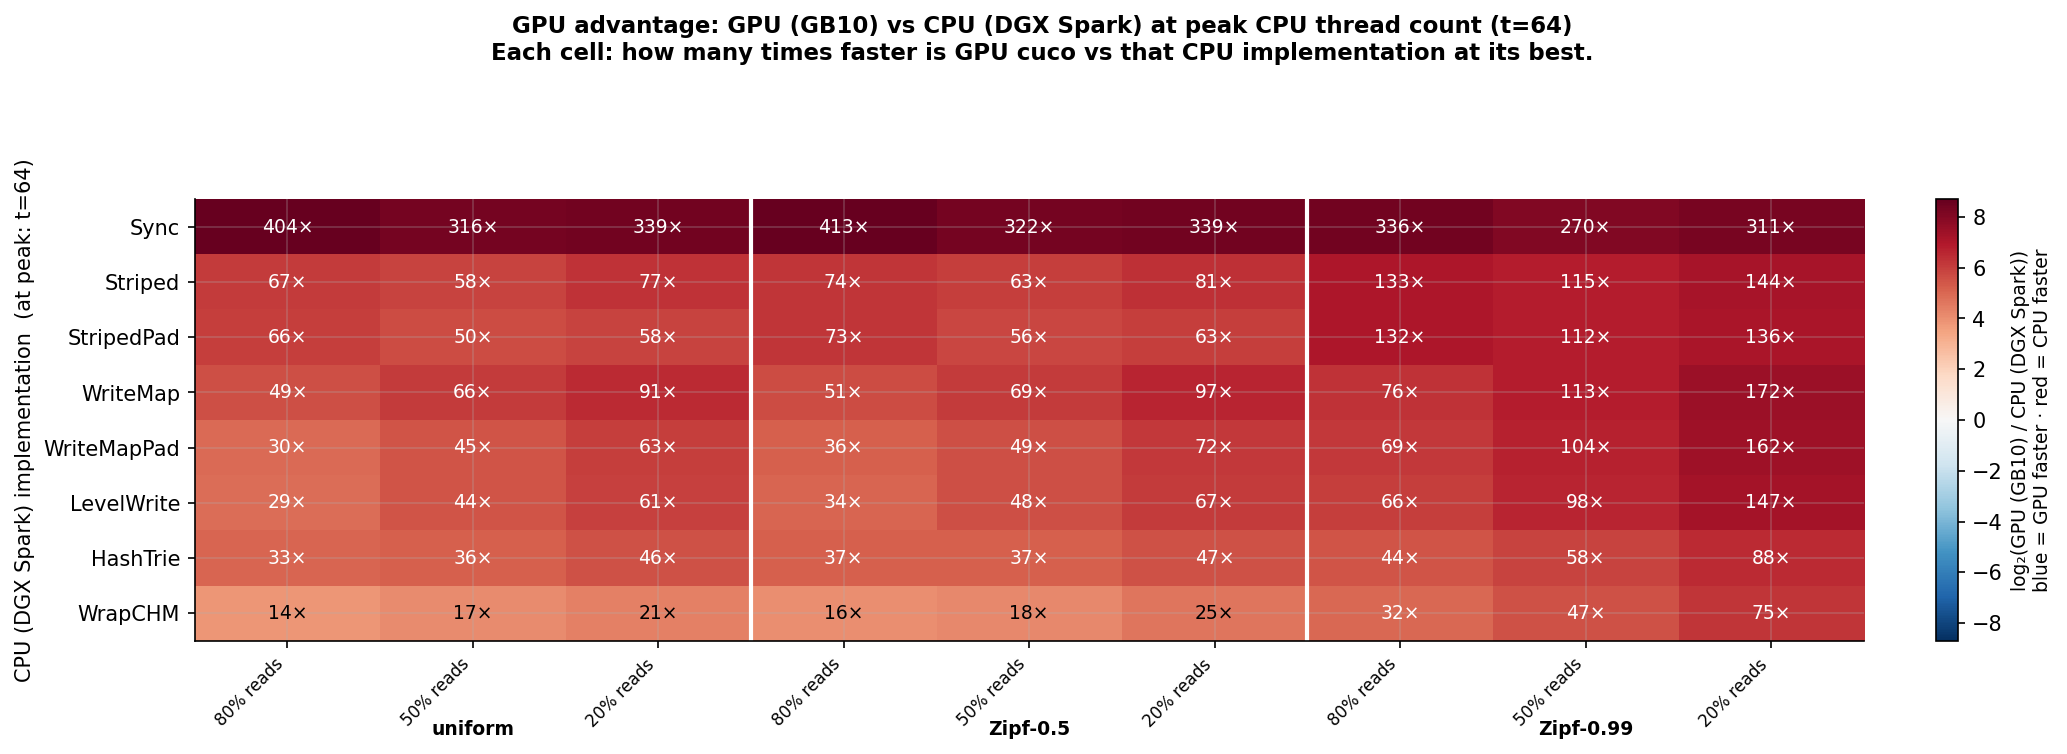
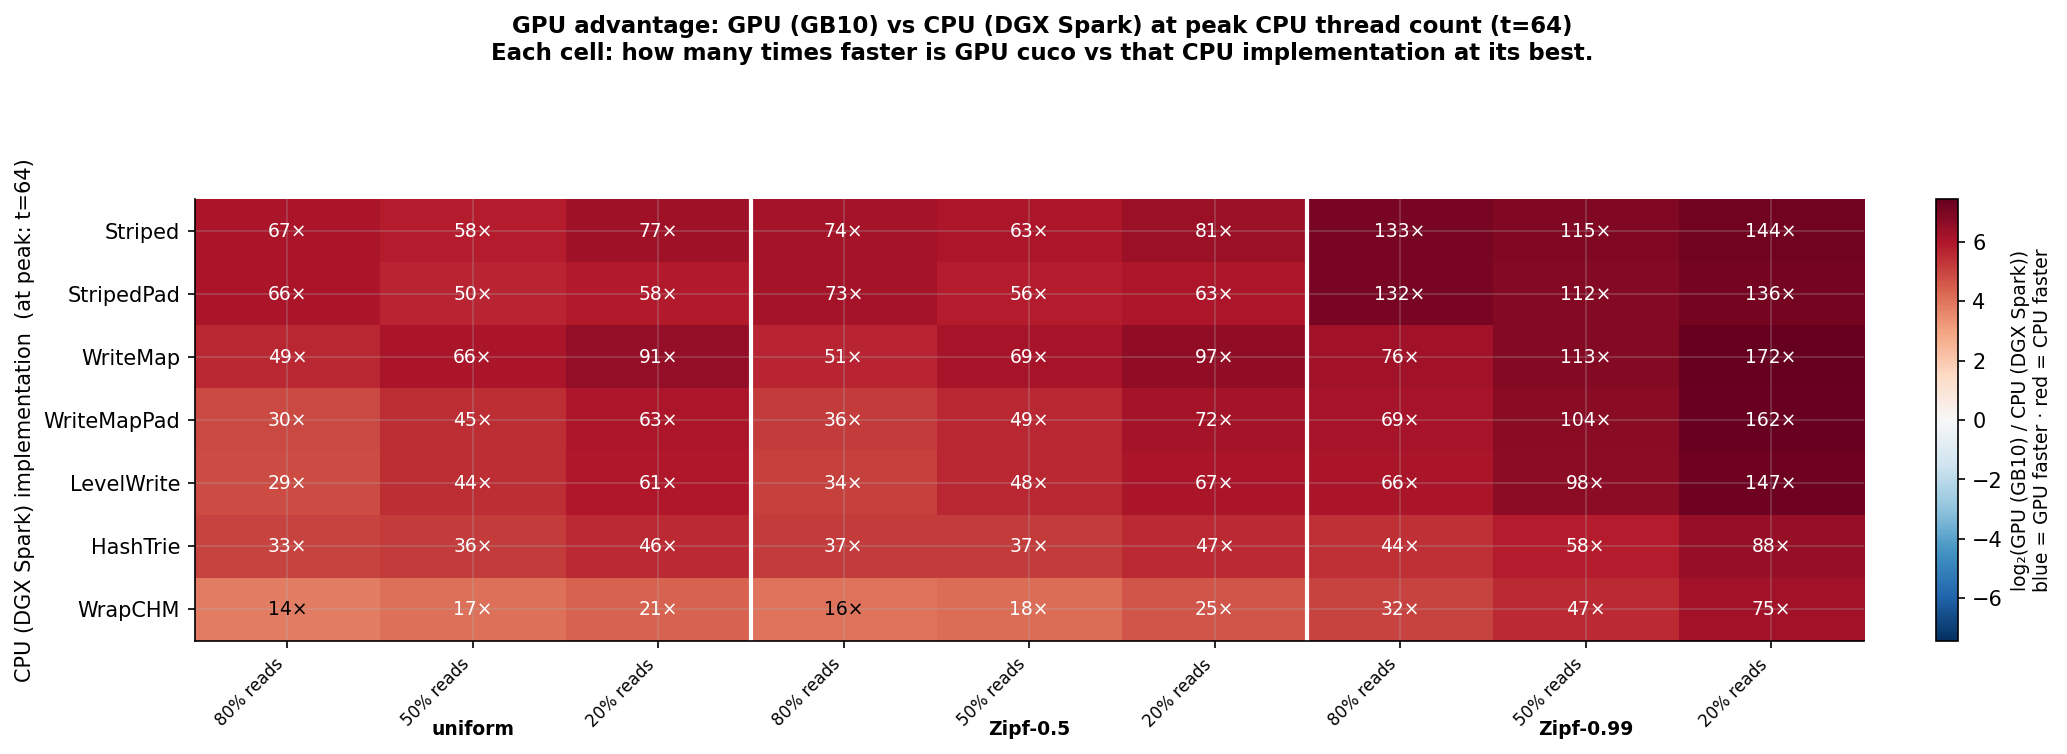
update again

diff --git a/main/compare_hardware.py b/main/compare_hardware.py
@@ -38,6 +38,7 @@ import matplotlib.ticker as ticker
 import numpy as np
 import pandas as pd
 
+# All 8 CPU implementations + GPU — used for full heatmaps (Fig 1, Fig 4)
 MAP_ORDER = [
     "SynchronizedMap", "StripedMap", "StripedMapPadded",
     "StripedWriteMap", "StripedWriteMapPadded",
@@ -55,6 +56,12 @@ MAP_SHORT = {
     "WrapConcurrentHashMap": "WrapCHM",
     "cuco_static_map":       "cuco",
 }
+
+# Focused subset for Fig 2 (scalability) and Fig 3 (advantage):
+# WrapCHM = best CPU implementation (fair "best vs best")
+# HashTrie = lock-free, most scalable, conceptually closest to GPU parallelism
+# Sync = baseline worst case (shows full range without cluttering middle)
+FOCUS_IMPLS = ["WrapConcurrentHashMap", "HashTrieMap", "SynchronizedMap"]
 
 CPU_COLOR, GPU_COLOR = "#4C72B0", "#DD8452"
 # keep old names as aliases so figure functions don't need changing
@@ -285,8 +292,8 @@ def plot_performance_overview(cpu, gpu, lbl_cpu, lbl_gpu, save_dir):
 # GPU throughput exceeds, matches, or falls short of peak CPU throughput.
 
 def plot_scalability(cpu, gpu, lbl_cpu, lbl_gpu, save_dir):
-    # Only CPU implementations for the subplots
-    maps = [m for m in MAP_ORDER if m in cpu["maptype"].values]
+    # Focus on WrapCHM, HashTrie, Sync — tells the full range without clutter
+    maps = [m for m in FOCUS_IMPLS if m in cpu["maptype"].values]
 
     def median_by_thread(df, m):
         ts, scores = [], []
@@ -367,10 +374,13 @@ def plot_scalability(cpu, gpu, lbl_cpu, lbl_gpu, save_dir):
 # and which does GPU struggle to beat due to CPU cache or SIMD advantages?
 
 def plot_hardware_advantage(cpu, gpu, lbl_cpu, lbl_gpu, save_dir):
-    # Compare GPU cuco vs each CPU implementation at t=1 across all workloads.
+    # Compare GPU cuco vs each CPU implementation at PEAK thread count.
+    # Excludes SynchronizedMap: with a global lock at 64 threads it is essentially
+    # serial — a 300-400× GPU speedup there is uninformative.
     # Rows = CPU implementations. Columns = 9 workload groups.
     # Color = log₂(GPU / CPU_impl) — blue = GPU faster, red = CPU faster.
-    cpu_maps = [m for m in MAP_ORDER if m in cpu["maptype"].values]
+    cpu_maps = [m for m in MAP_ORDER
+                if m in cpu["maptype"].values and m != "SynchronizedMap"]
 
     dists  = [d for d in ["uniform", "zipfian_0.5", "zipfian_0.99"]
               if d in cpu["distribution"].values]